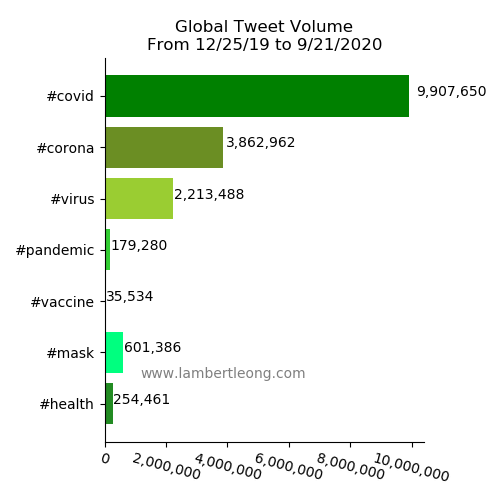
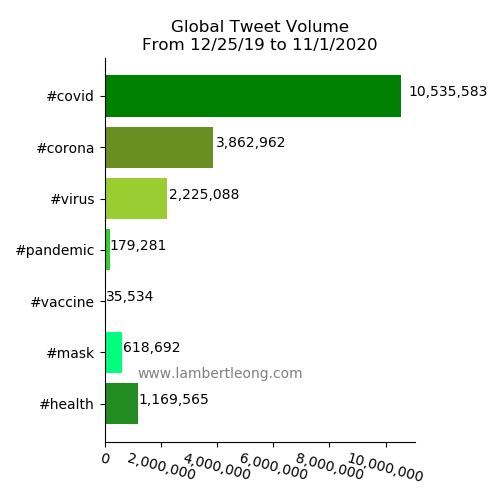
election update and fixed photo viewer js

diff --git a/assets/js/user.js b/assets/js/user.js
@@ -54,7 +54,7 @@ function imageZoom(imgID, resultID) {
         return {x : x, y : y};
     }
 }
-/*
+
 var slideIndex = 1;
 showSlides(slideIndex);
 
@@ -85,7 +85,7 @@ function showSlides(n) {
     dots[slideIndex-1].className += " active";
     captionText.innerHTML = dots[slideIndex-1].alt;
 }
-*/
+
 function magnify(imgID, zoom) {
     var img, glass, w, h, bw;
     img = document.getElementById(imgID);

diff --git a/_posts/thoughts/2020-09-12-election-2020-twitter-trends.md b/_posts/thoughts/2020-09-12-election-2020-twitter-trends.md
@@ -28,21 +28,20 @@ tags:
   - twitter
   - hashtag
 ---
-__Here is the data, make your own conclusions.__
 
 __TLDR__
-* Social media data is interesting and may indicate election consensus
+* Social media data is interesting with respect to the 2020 presidential election
+* __Here is the data, make your own conclusions.__
 
 
 Oscar Wilde once wrote “The only thing worse than being talked about is not being talked about”. This is
 along the idea that any press is good press and with Trump in 2016 this seemed to be the case.  The 2016 election showed
- us the effects that social media had on Who becomes president and runs the country. Here we 
-can look at trending twitter hashtags as they relate to one of the two major political parties as we near
-the 2020 election.  
+ us that social media can have an effect on who become president and runs the country. Here we
+  look at trending twitter hashtags and terms as they relate to one of the two major political parties leading up to the 2020 election.  
 
 We gathered the top 50 trending topics on Twitter each day for the past year. These topics are presented
-in the form of hashtages (#) and trending words, terms, or phrases.  With this data we can invesitgate
-how many days a topic was trending as well as the changes in volume of that topic.  Tweet data was 
+in the form of hashtages (#) and trending words, terms, or phrases.  With this data we can investigate
+how many days a topic was trending as well as the changes in total tweet volume for a topic.  Tweet data was 
 provided by [@igetthetags](https://twitter.com/igetthetags) ![Twitter][1.2].
 
 
@@ -54,20 +53,19 @@ provided by [@igetthetags](https://twitter.com/igetthetags) ![Twitter][1.2].
 |        Pence       	|  268,170 	|
 
 <br>
-We take no political side and remain objective in our exploration of this data.  In addition, no sentiment
+We take no political side and remain objective in our exploration.  In addition, no sentiment
 analysis was done on all the tweets to determine if they were for or against a particular political party.
-Hence, we reiterate that any press is good press. We used particular search terms to classify a trending
+Hence, we reiterate that any press is good press and consider all mentions to be positive for one party or another. We used particular search terms to classify a trending
 topic into one of two classes; republican or democrat. A hashtag is categorized as democratic if it 
 contains any of the following words: <span style="color:blue">'joebiden', 'biden', 'kamalaharris',
 'harris', 'democrat'</span>.  A hashtag is categorized as republican if it contains any of the 
 following words: <span style="color:red">'donaldtrump', 'trump', 'mikepence', 'pence', 'republican'</span>
-. Remember, hashtags do not contain spaces.
+. Remember, hashtags do not contain spaces and thus our classification terms do not as well.
 
 <img  src="/assets/images/essays/election_tags/election2020_total.png" width="70%" alt="Total tweet political election volume" >
 
 The republicans appear to be ahead with respect to social media "buzz".  Several events and news have
-instigated many tweets.  Below is a timeline of important events and corresponding tweet volumes with
-respect to each party.
+instigated many tweets.  Below is a timeline of important events or news and the corresponding tweet volumes colored by political party.
 
 <!--div class="zoom">
     <img id="test" src="/assets/images/essays/hawaii_covid/hawaii_covid19_case_timeline2.png" width="100%"
@@ -75,13 +73,11 @@ respect to each party.
 </div-->
 
 
-[__Download Full Case Chart HERE__](/assets/images/essays/election_tags/election2020_tag_timeline.png)
+[__View Full Case Chart HERE__](/assets/images/essays/election_tags/election2020_tag_timeline.png)
 <br>
-
+<br>
 <div class="img-magnifier-container">
-  <a href="/assets/images/essays/hawaii_covid/hawaii_covid19_case_timeline.png">
-  <img id="myimage1" src="img_girl.jpg" src="/assets/images/essays/election_tags/election2020_tag_timeline2.png" width="100%" height="auto" alt="Hashtag Election Timeline">
-  </a>
+  <img id="myimage1" src="/assets/images/essays/election_tags/election2020_tag_timeline2.png" width="100%" height="auto" alt="Hashtag Election Timeline">
 </div>
 <script>
 /* Execute the magnify function: */
@@ -90,7 +86,8 @@ magnify("myimage1", 2.5);
 </script>
 <br>
 
-In addition to political classification, we looked at some interesting tweet topics that had high volumes.
+In addition to political classification, we looked at some interesting tweet topics that had high volumes.  The terms
+in the following table stemmed from very polarizing events and spurred many political related tweets.
 
 | Tweets Containing: 	|  Volume 	|
 |--------------------	|--------:	|
@@ -101,11 +98,11 @@ In addition to political classification, we looked at some interesting tweet top
 
 <br>
 
-The corona virus or COVID19 was a difficult obstical that the world faced in 2020.  It was also 
-a polarizing topic that sparked many conversations and tweets with respect to the virus as well as 
-poitics.
+The corona virus or COVID19 was a difficult obstacle that the world faced in 2020.  It was also 
+a "hot" topic that sparked many conversations and tweets with respect to the virus as well as 
+politics.
 
-[__Download Final Count Chart HERE__](/assets/images/essays/election_tags/covid_tags2020.png)
+[__View Final Count Chart HERE__](/assets/images/essays/election_tags/covid_tags2020.png)
 
 <img  src="/assets/images/essays/election_tags/covid_tag.gif" width="100%" alt="Covid19 corona virus tweet volume 2020" >
 

diff --git a/_posts/thoughts/2020-08-12-hawaii-covid19-timeline.md b/_posts/thoughts/2020-08-12-hawaii-covid19-timeline.md
@@ -36,7 +36,7 @@ Charts and data update, at least, every week.
 </div-->
 
 
-[__Download Full Case Chart HERE__](/assets/images/essays/hawaii_covid/hawaii_covid19_case_timeline.png){:target="_blank"}
+[__View Full Case Chart HERE__](/assets/images/essays/hawaii_covid/hawaii_covid19_case_timeline.png){:target="_blank"}
 <br>
 <br>
 <div class="img-magnifier-container">
@@ -65,7 +65,7 @@ imageZoom("myimage", "myresult");
 
 <br>
 
-[__Download Full New Case Chart HERE__](/assets/images/essays/hawaii_covid/hawaii_covid19_newcase_timeline.png){:target="_blank"}
+[__View Full New Case Chart HERE__](/assets/images/essays/hawaii_covid/hawaii_covid19_newcase_timeline.png){:target="_blank"}
 <br>
 <br>
 <center>
